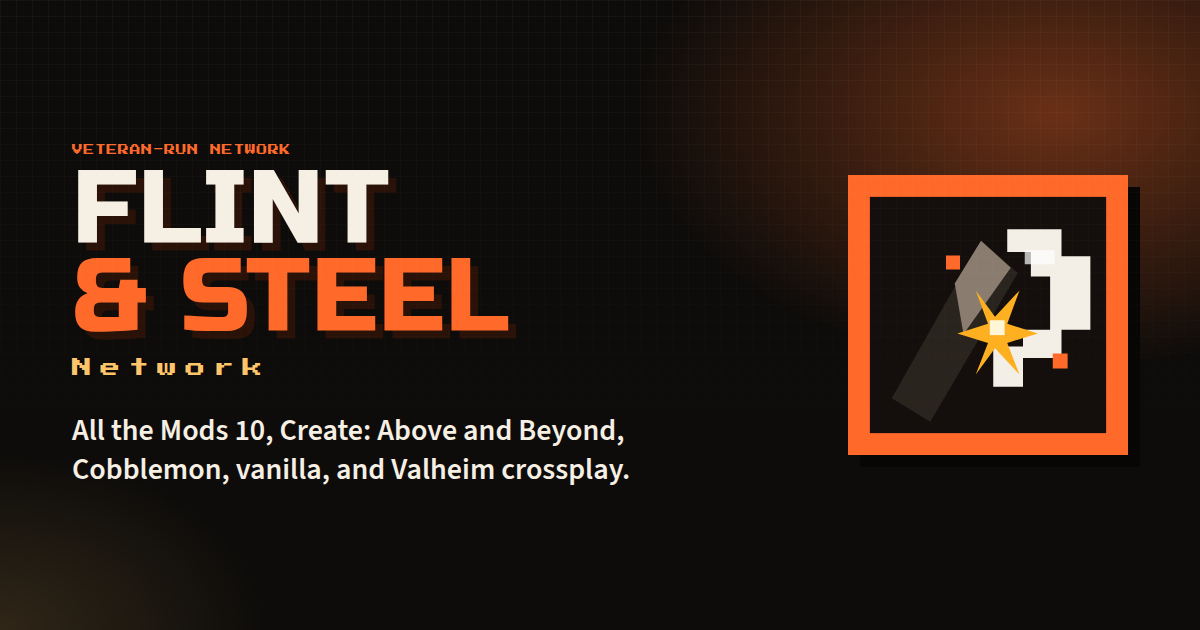
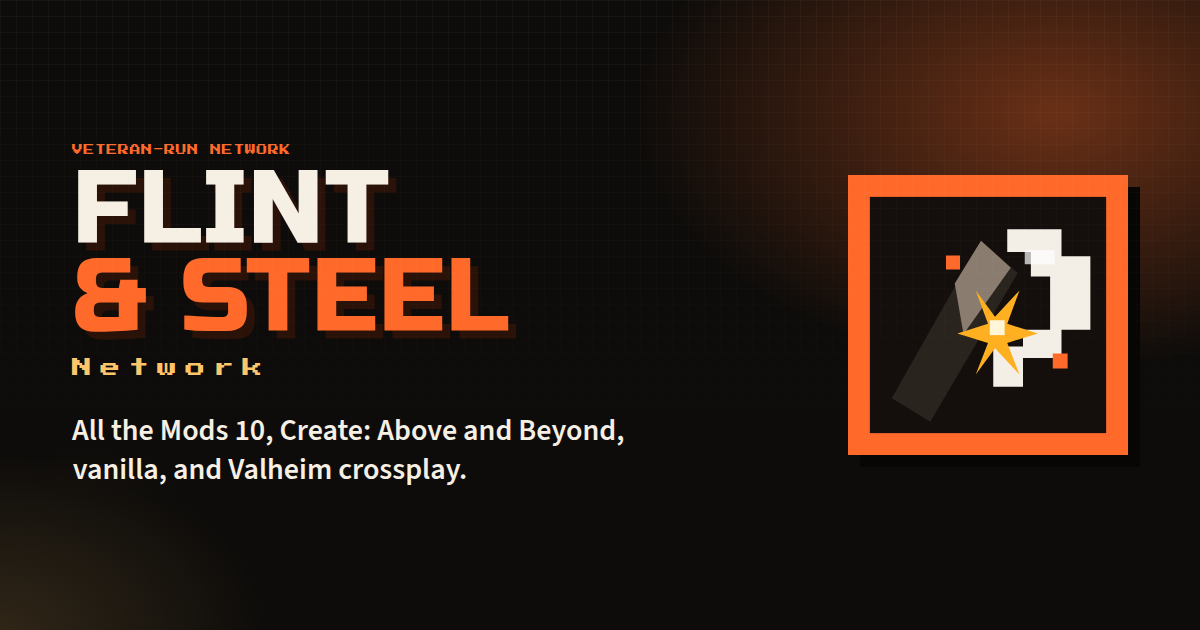
Remove the retired Cobblemon server from the site.
Drop it from the lede, meta text, schema list, server card, join steps, vote links, and the link-preview image. The Pages check no longer requires that name, so the deploy can publish the updated site.

Changed region(s): [[0.0617, 0.7238, 0.5242, 0.7841]]

diff --git a/index.html b/index.html
@@ -6,13 +6,13 @@
   <meta name="theme-color" content="#0e0c0a">
   <meta name="color-scheme" content="dark">
   <title>Flint and Steel Network | Veteran-run Minecraft, Valheim, and Palworld servers</title>
-  <meta name="description" content="Veteran-run Minecraft network with All the Mods 10 (ATM10), Create: Above and Beyond, Cobblemon, vanilla survival, Valheim crossplay, and Palworld PvE.">
+  <meta name="description" content="Veteran-run Minecraft network with All the Mods 10 (ATM10), Create: Above and Beyond, vanilla survival, Valheim crossplay, and Palworld PvE.">
   <link rel="canonical" href="https://flintandsteelnetwork.com/">
   <meta property="og:type" content="website">
   <meta property="og:site_name" content="Flint and Steel Network">
   <meta property="og:locale" content="en_US">
   <meta property="og:title" content="Flint and Steel Network | Veteran-run Minecraft, Valheim, and Palworld servers">
-  <meta property="og:description" content="Veteran-run Minecraft network with All the Mods 10 (ATM10), Create: Above and Beyond, Cobblemon, vanilla survival, Valheim crossplay, and Palworld PvE.">
+  <meta property="og:description" content="Veteran-run Minecraft network with All the Mods 10 (ATM10), Create: Above and Beyond, vanilla survival, Valheim crossplay, and Palworld PvE.">
   <meta property="og:url" content="https://flintandsteelnetwork.com/">
   <meta property="og:image" content="https://flintandsteelnetwork.com/images/og.png">
   <meta property="og:image:secure_url" content="https://flintandsteelnetwork.com/images/og.png">
@@ -22,7 +22,7 @@
   <meta property="og:image:alt" content="Flint and Steel Network, a veteran-run Minecraft and game server network">
   <meta name="twitter:card" content="summary_large_image">
   <meta name="twitter:title" content="Flint and Steel Network | Veteran-run Minecraft, Valheim, and Palworld servers">
-  <meta name="twitter:description" content="Veteran-run Minecraft network with All the Mods 10 (ATM10), Create: Above and Beyond, Cobblemon, vanilla survival, Valheim crossplay, and Palworld PvE.">
+  <meta name="twitter:description" content="Veteran-run Minecraft network with All the Mods 10 (ATM10), Create: Above and Beyond, vanilla survival, Valheim crossplay, and Palworld PvE.">
   <meta name="twitter:image" content="https://flintandsteelnetwork.com/images/og.png">
   <meta name="twitter:image:alt" content="Flint and Steel Network, a veteran-run Minecraft and game server network">
   <meta name="referrer" content="strict-origin-when-cross-origin">
@@ -60,7 +60,7 @@
         "@type": "ItemList",
         "name": "Flint and Steel servers",
         "itemListOrder": "https://schema.org/ItemListOrderAscending",
-        "numberOfItems": 6,
+        "numberOfItems": 5,
         "itemListElement": [
           {
             "@type": "ListItem",
@@ -102,17 +102,6 @@
             "position": 4,
             "item": {
               "@type": "VideoGame",
-              "name": "Cobblemon",
-              "description": "Cobblemon Pokemon modpack with a Pokemon-center themed spawn. Whitelisted through Discord.",
-              "gamePlatform": "Minecraft",
-              "url": "https://flintandsteelnetwork.com/#cobblemon"
-            }
-          },
-          {
-            "@type": "ListItem",
-            "position": 5,
-            "item": {
-              "@type": "VideoGame",
               "name": "Valheim",
               "description": "Valheim crossplay world. Steam and Xbox players use join code 308346.",
               "gamePlatform": "Valheim",
@@ -121,7 +110,7 @@
           },
           {
             "@type": "ListItem",
-            "position": 6,
+            "position": 5,
             "item": {
               "@type": "VideoGame",
               "name": "Flint and Steel Palworld",
@@ -183,7 +172,7 @@
         <p class="network" aria-hidden="true">Network</p>
         <p class="tagline">Strike a spark. Stay for the build.</p>
         <p class="about-line">A veteran-run Minecraft and game server network.</p>
-        <p class="lede">All the Mods 10, Create: Above and Beyond, Cobblemon, an open vanilla world, a Valheim crossplay server, and a Palworld PvE server.</p>
+        <p class="lede">All the Mods 10, Create: Above and Beyond, an open vanilla world, a Valheim crossplay server, and a Palworld PvE server.</p>
         <div class="hero-actions">
           <a class="btn btn-ember" href="https://discord.gg/zWJfDJQcgP" target="_blank" rel="noopener noreferrer">Join the Flint and Steel Discord<span class="sr-only"> (opens in a new tab)</span></a>
           <a class="btn btn-steel" href="#servers">See the servers</a>
@@ -300,25 +289,6 @@
           <span class="sr-only" data-announce aria-live="polite"></span>
         </article>
 
-        <article class="server-card" id="cobblemon" data-server="cobblemon" data-game="minecraft" data-address="cobblemon.flintandsteelnetwork.com">
-          <div class="card-kicker">
-            <span class="code">COBBLEMON</span>
-            <span class="chip">Discord whitelist</span>
-          </div>
-          <h4>Cobblemon</h4>
-          <p class="platform">Pokemon modpack</p>
-          <p class="blurb">Pokemon modpack with a Pokemon-center themed spawn. Whitelisted through Discord.</p>
-          <code class="address">cobblemon.<wbr>flintandsteelnetwork.<wbr>com</code>
-          <div class="card-actions">
-            <button type="button" class="btn btn-steel btn-copy" data-copy="cobblemon.flintandsteelnetwork.com" data-copy-what="Cobblemon address">Copy address</button>
-          </div>
-          <p class="status is-checking" data-status>
-            <span class="lamp" aria-hidden="true"></span>
-            <span class="status-label">Checking</span>
-            <span class="status-meta">Asking the server</span>
-          </p>
-          <span class="sr-only" data-announce aria-live="polite"></span>
-        </article>
         </div>
       </section>
 
@@ -401,7 +371,7 @@
       <div class="join-grid">
         <article class="join-track">
           <h3>Modded servers</h3>
-          <p class="track-detail">All the Mods 10, Create: Above and Beyond, and Cobblemon.</p>
+          <p class="track-detail">All the Mods 10 and Create: Above and Beyond.</p>
           <ol>
             <li>Install CurseForge and the matching modpack.</li>
             <li>Launch that pack, add the server address from the card, and connect.</li>
@@ -411,7 +381,6 @@
             <li><a class="text-link" href="https://www.curseforge.com/minecraft/modpacks/all-the-mods-10" target="_blank" rel="noopener noreferrer">All the Mods 10 on CurseForge<span class="sr-only"> (opens in a new tab)</span></a></li>
             <li><a class="text-link" href="https://www.curseforge.com/minecraft/modpacks/create-above-and-beyond" target="_blank" rel="noopener noreferrer">Create: Above and Beyond on CurseForge<span class="sr-only"> (opens in a new tab)</span></a></li>
           </ul>
-          <p class="note">For Cobblemon, install the pack named in Discord so your mods match the server.</p>
         </article>
         <article class="join-track">
           <h3>Vanilla Survival</h3>
@@ -517,17 +486,6 @@
             <a class="btn btn-vote" href="https://minecraftservers.org/vote/696286" target="_blank" rel="noopener noreferrer">Vote for Create: Above and Beyond on MinecraftServers.org<span class="sr-only"> (opens in a new tab)</span></a>
             <a class="btn btn-vote" href="https://topg.org/minecraft-servers/server-688623#vote" target="_blank" rel="noopener noreferrer">Vote for Create: Above and Beyond on TopG<span class="sr-only"> (opens in a new tab)</span></a>
             <a class="btn btn-vote" href="https://minecraft-server-list.com/server/525042/vote/" target="_blank" rel="noopener noreferrer">Vote for Create: Above and Beyond on Minecraft Server List<span class="sr-only"> (opens in a new tab)</span></a>
-          </div>
-        </article>
-        <article class="vote-group">
-          <h3>Cobblemon</h3>
-          <div class="vote-actions">
-            <a class="btn btn-vote" href="https://moddedminecraftservers.com/server/flint-and-steel-network-cobblemon.61132/#vote" target="_blank" rel="noopener noreferrer">Vote for Cobblemon on Modded Minecraft Servers<span class="sr-only"> (opens in a new tab)</span></a>
-            <a class="btn btn-vote" href="https://minecraft-mp.com/server/367006/vote/" target="_blank" rel="noopener noreferrer">Vote for Cobblemon on Minecraft MP<span class="sr-only"> (opens in a new tab)</span></a>
-            <a class="btn btn-vote" href="https://ftbservers.com/server/EB8QvcZO/vote" target="_blank" rel="noopener noreferrer">Vote for Cobblemon on FTB Servers<span class="sr-only"> (opens in a new tab)</span></a>
-            <a class="btn btn-vote" href="https://minecraftservers.org/vote/696287" target="_blank" rel="noopener noreferrer">Vote for Cobblemon on MinecraftServers.org<span class="sr-only"> (opens in a new tab)</span></a>
-            <a class="btn btn-vote" href="https://topg.org/minecraft-servers/server-688624#vote" target="_blank" rel="noopener noreferrer">Vote for Cobblemon on TopG<span class="sr-only"> (opens in a new tab)</span></a>
-            <a class="btn btn-vote" href="https://minecraft-server-list.com/server/525043/vote/" target="_blank" rel="noopener noreferrer">Vote for Cobblemon on Minecraft Server List<span class="sr-only"> (opens in a new tab)</span></a>
           </div>
         </article>
       </div>

diff --git a/config.js b/config.js
@@ -13,7 +13,7 @@ window.FNS_CONFIG = {
   name: "Flint and Steel Network",
   tagline: "Strike a spark. Stay for the build.",
   about: "A veteran-run Minecraft and game server network.",
-  lede: "All the Mods 10, Create: Above and Beyond, Cobblemon, an open vanilla world, a Valheim crossplay server, and a Palworld PvE server.",
+  lede: "All the Mods 10, Create: Above and Beyond, an open vanilla world, a Valheim crossplay server, and a Palworld PvE server.",
   discordUrl: "https://discord.gg/zWJfDJQcgP",
   comingSoon: "",
   voteMessage: "Every vote helps keep the servers online.",
@@ -80,28 +80,6 @@ window.FNS_CONFIG = {
       ]
     },
     {
-      id: "cobblemon",
-      name: "Cobblemon",
-      code: "COBBLEMON",
-      game: "minecraft",
-      platform: "Pokemon modpack",
-      blurb: "Pokemon modpack with a Pokemon-center themed spawn. Whitelisted through Discord.",
-      address: "cobblemon.flintandsteelnetwork.com",
-      addressConfirmed: true,
-      access: "Discord whitelist",
-      votes: [
-        {
-          label: "Modded Minecraft Servers",
-          url: "https://moddedminecraftservers.com/server/flint-and-steel-network-cobblemon.61132/#vote"
-        },
-        { label: "Minecraft MP", url: "https://minecraft-mp.com/server/367006/vote/" },
-        { label: "FTB Servers", url: "https://ftbservers.com/server/EB8QvcZO/vote" },
-        { label: "MinecraftServers.org", url: "https://minecraftservers.org/vote/696287" },
-        { label: "TopG", url: "https://topg.org/minecraft-servers/server-688624#vote" },
-        { label: "Minecraft Server List", url: "https://minecraft-server-list.com/server/525043/vote/" }
-      ]
-    },
-    {
       id: "valheim",
       name: "Valheim",
       code: "VALHEIM",
@@ -130,7 +108,7 @@ window.FNS_CONFIG = {
       {
         id: "modded",
         title: "Modded servers",
-        detail: "All the Mods 10, Create: Above and Beyond, and Cobblemon.",
+        detail: "All the Mods 10 and Create: Above and Beyond.",
         steps: [
           "Install CurseForge and the matching modpack.",
           "Launch that pack, add the server address from the card, and connect.",
@@ -145,8 +123,7 @@ window.FNS_CONFIG = {
             label: "Create: Above and Beyond on CurseForge",
             url: "https://www.curseforge.com/minecraft/modpacks/create-above-and-beyond"
           }
-        ],
-        note: "For Cobblemon, install the pack named in Discord so your mods match the server."
+        ]
       },
       {
         id: "vanilla",
